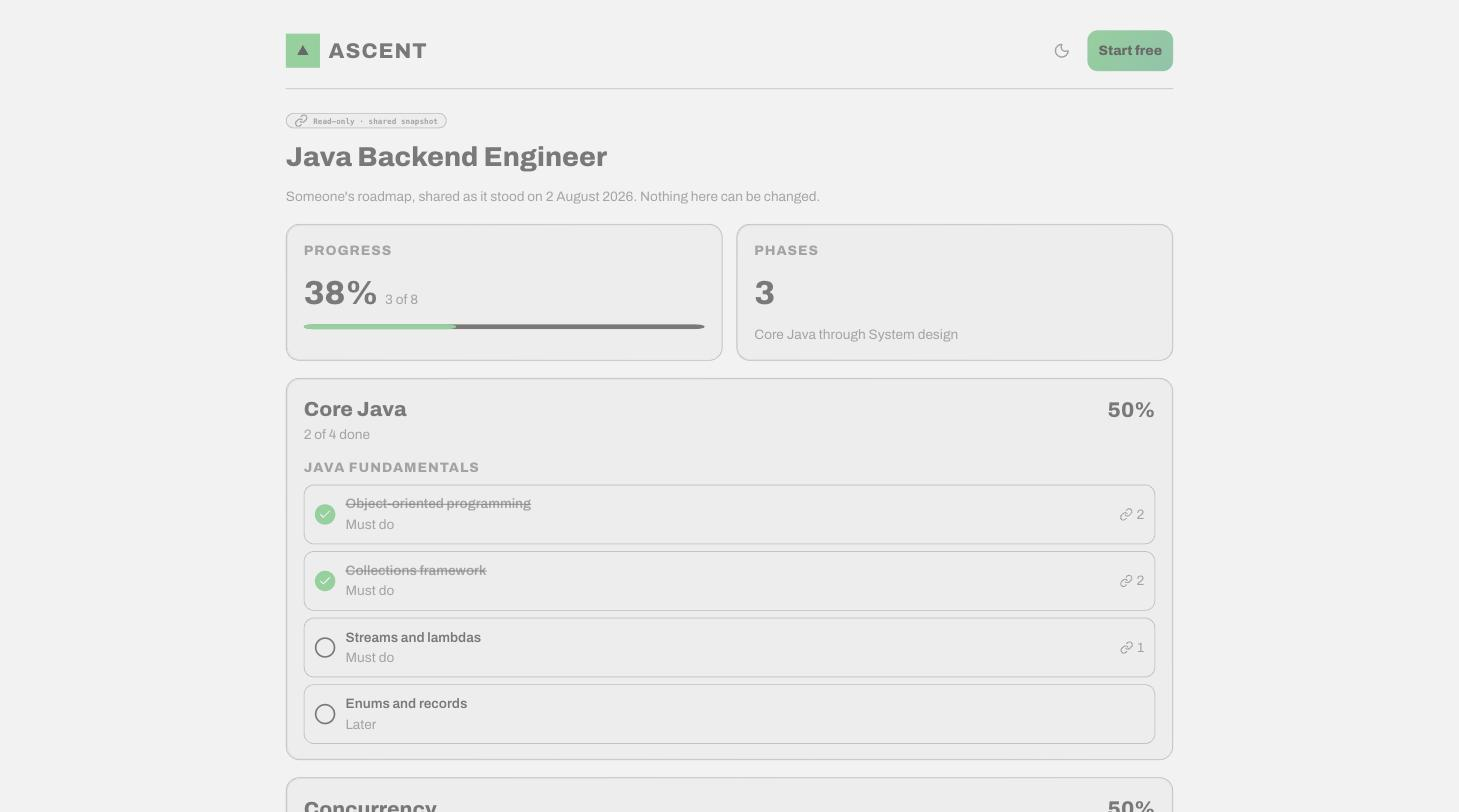
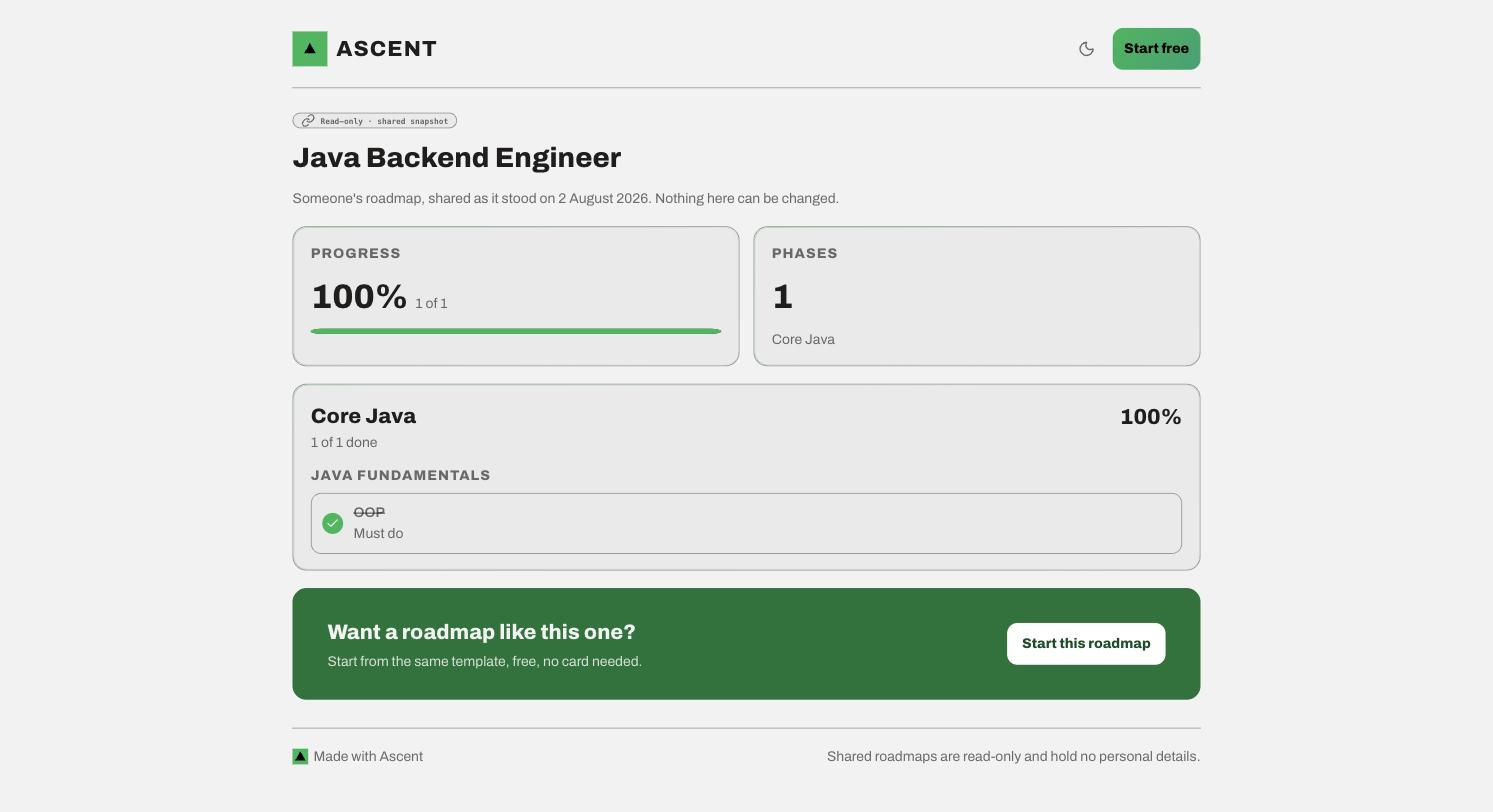
fix: brand-mark glyph not scaling down with its container
.brand-mark's inner <svg> carries its own fixed width="20"/height="20"
HTML attributes (brandGlyph(), brand.js) — shrinking only the outer box
for the footer attribution left the triangle at its native 20px size
inside an 18px box, reading as off-center. Force the svg to fill its
box so place-items: center centers a correctly-sized glyph.

diff --git a/src/styles/app.css b/src/styles/app.css
@@ -2886,7 +2886,14 @@ a.brand:focus-visible { outline: 2px solid var(--color-accent); outline-offset: 
    default-underline) so the whole line reads as one calm, muted caption. */
 .shared-view-attribution { display: inline-flex; align-items: center; gap: 6px; color: var(--color-text-muted); font-size: var(--text-base); text-decoration: none; }
 .shared-view-attribution:hover, .shared-view-attribution:focus-visible { text-decoration: underline; }
+/* .brand-mark's inner <svg> carries its own fixed width="20"/height="20"
+   HTML attributes (brandGlyph(), brand.js) — shrinking only the outer box
+   here left the glyph at its native 20px size inside an 18px box, poking
+   out asymmetrically instead of scaling down with it. The child selector
+   forces the svg to fill its (smaller) box so place-items: center centers
+   a correctly-sized glyph, not an oversized one. */
 .shared-view-attribution .brand-mark { width: 18px; height: 18px; }
+.shared-view-attribution .brand-mark svg { width: 100%; height: 100%; }
 .shared-view-footer-note { color: var(--color-text-muted); font-size: var(--text-base); }
 
 @media (max-width: 480px) {
